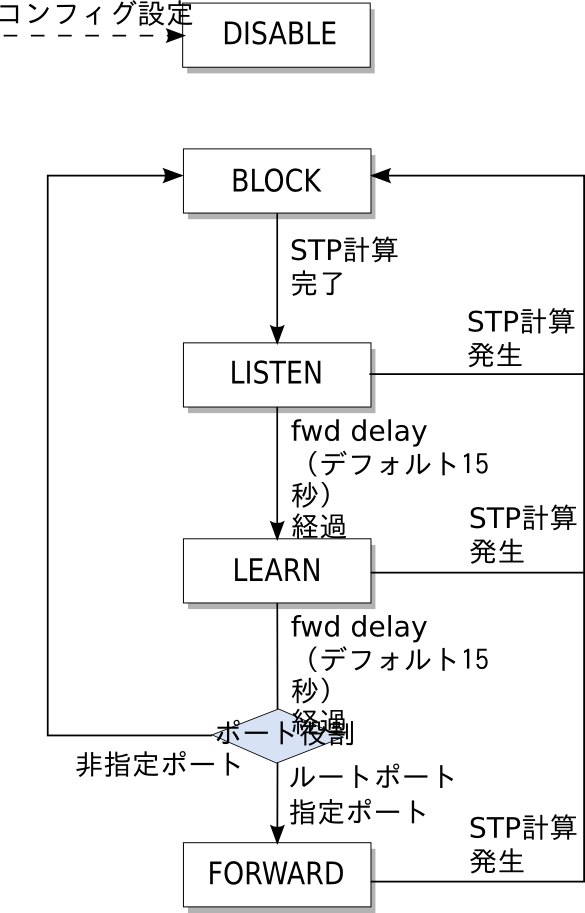
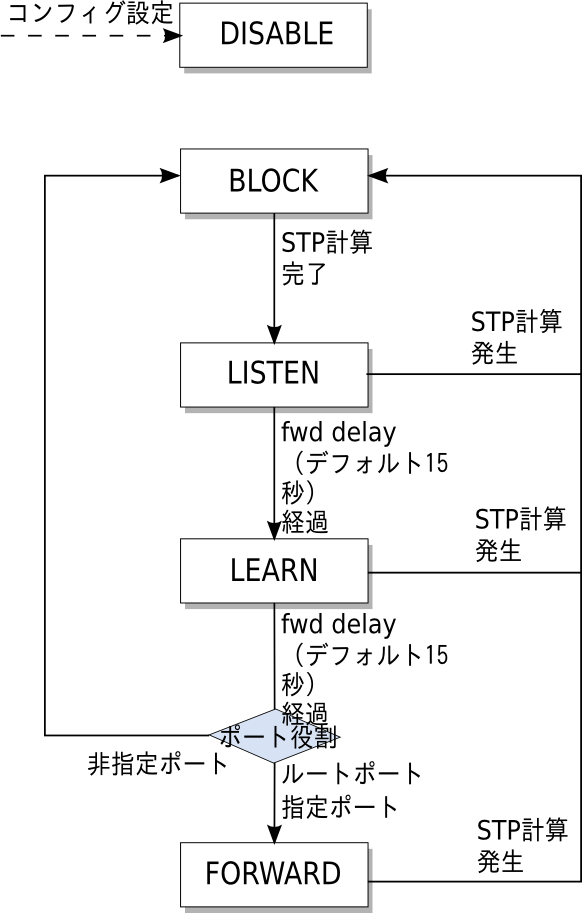
ja/html: 40e716d update stp images

diff --git a/ja/html/spanning_tree.html b/ja/html/spanning_tree.html
@@ -163,7 +163,7 @@
 <blockquote>
 <div><p>ポート役割の決定後(STP計算の完了時)、各ポートはLISTEN状態になります。その後、以下に示す状態遷移を行い、最終的に各ポートの役割に従ってFORWARD状態またはBLOCK状態に遷移します。コンフィグで無効ポートと設定されたポートはDISABLE状態となり、以降、状態遷移は行われません。</p>
 <blockquote>
-<div><a class="reference internal image-reference" href="_images/fig41.png"><img alt="_images/fig41.png" src="_images/fig41.png" style="width: 292.5px; height: 456.5px;" /></a>
+<div><a class="reference internal image-reference" href="_images/fig41.png"><img alt="_images/fig41.png" src="_images/fig41.png" style="width: 291.0px; height: 456.5px;" /></a>
 </div></blockquote>
 <table border="1" class="docutils">
 <colgroup>
@@ -813,7 +813,7 @@ listening on s3-eth2, link-type EN10MB (Ethernet), capture size 65535 bytes
 <h3>ライブラリの実装<a class="headerlink" href="#id8" title="このヘッドラインへのパーマリンク">¶</a></h3>
 <div class="section" id="id9">
 <h4>ライブラリ概要<a class="headerlink" href="#id9" title="このヘッドラインへのパーマリンク">¶</a></h4>
-<a class="reference internal image-reference" href="_images/fig9.png"><img alt="_images/fig9.png" src="_images/fig9.png" style="width: 1416.8px; height: 448.8px;" /></a>
+<a class="reference internal image-reference" href="_images/fig9.png"><img alt="_images/fig9.png" src="_images/fig9.png" style="width: 1416.8px; height: 445.5px;" /></a>
 <p>STPライブラリ(Stpクラスオブジェクト)がOpenFlowスイッチのコントローラへの接続を検出すると、Bridgeクラスオブジェクト・Portクラスオブジェクトが生成されます。各クラスオブジェクトが生成・起動された後は、StpクラスオブジェクトからのOpenFlowメッセージ受信通知、BridgeクラスオブジェクトのSTP計算(ルートブリッジ選択・各ポートの役割選択)、Portクラスオブジェクトのポート状態遷移・BPDUパケット送受信が連動し、スパニングツリー機能を実現します。</p>
 </div>
 <div class="section" id="id10">
